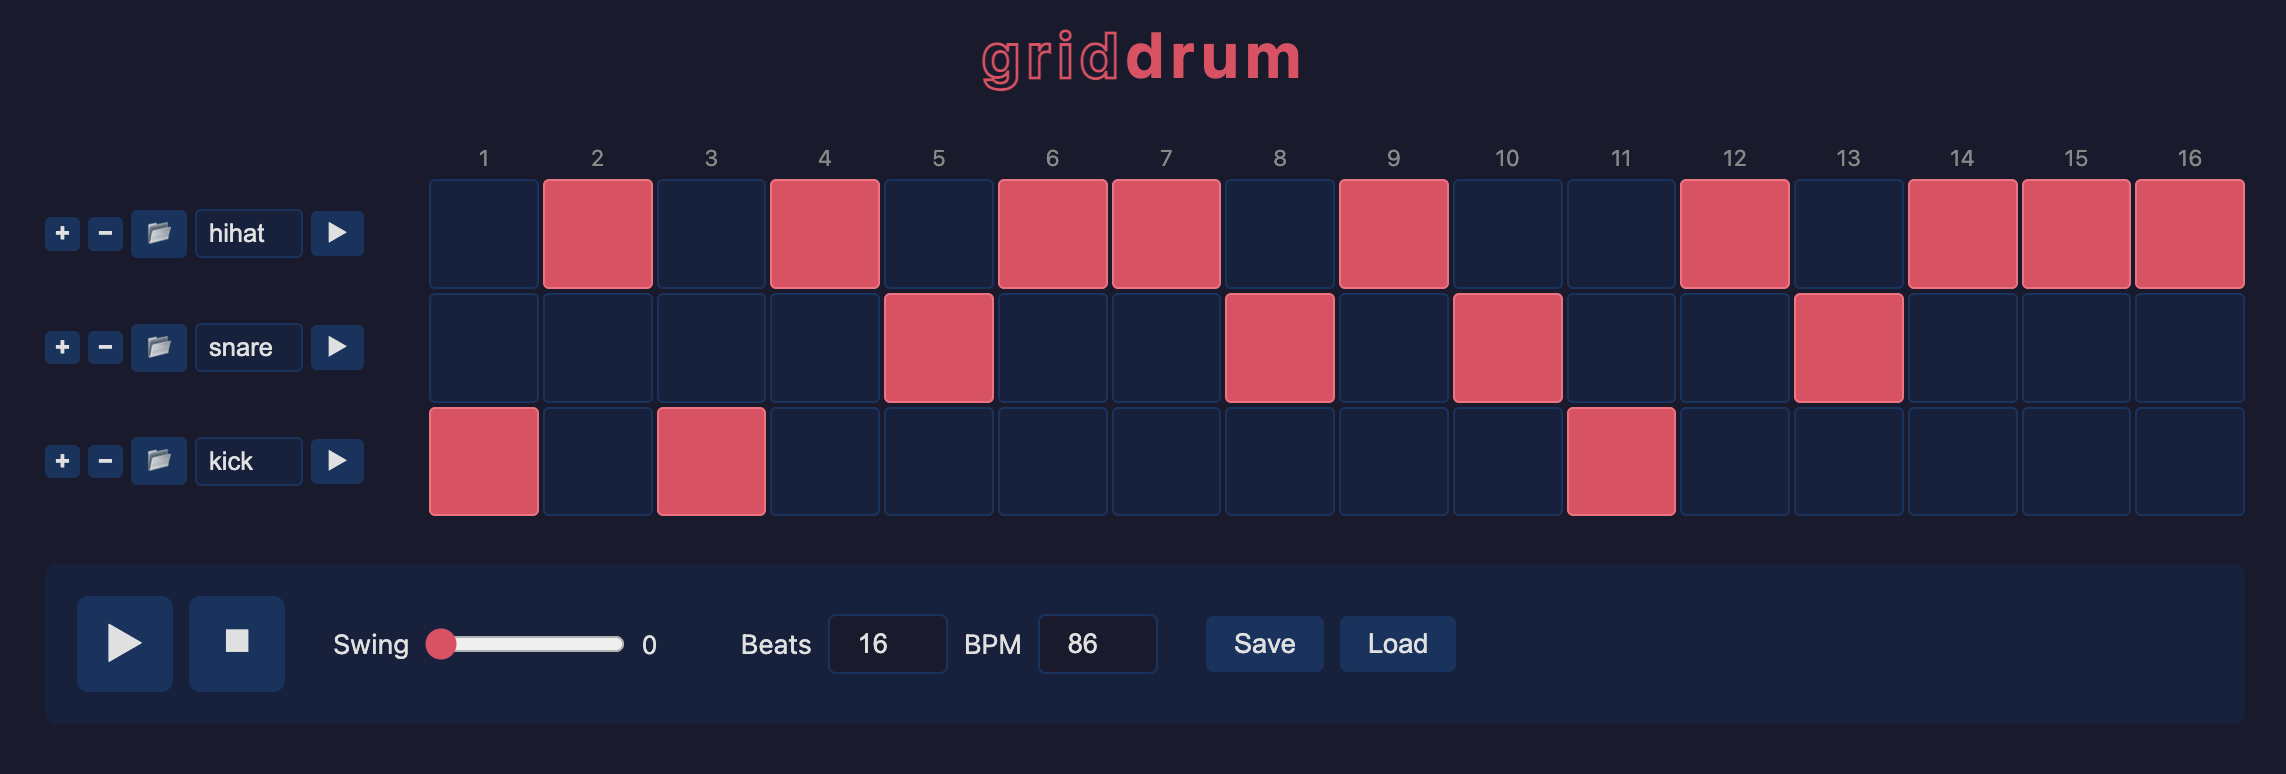
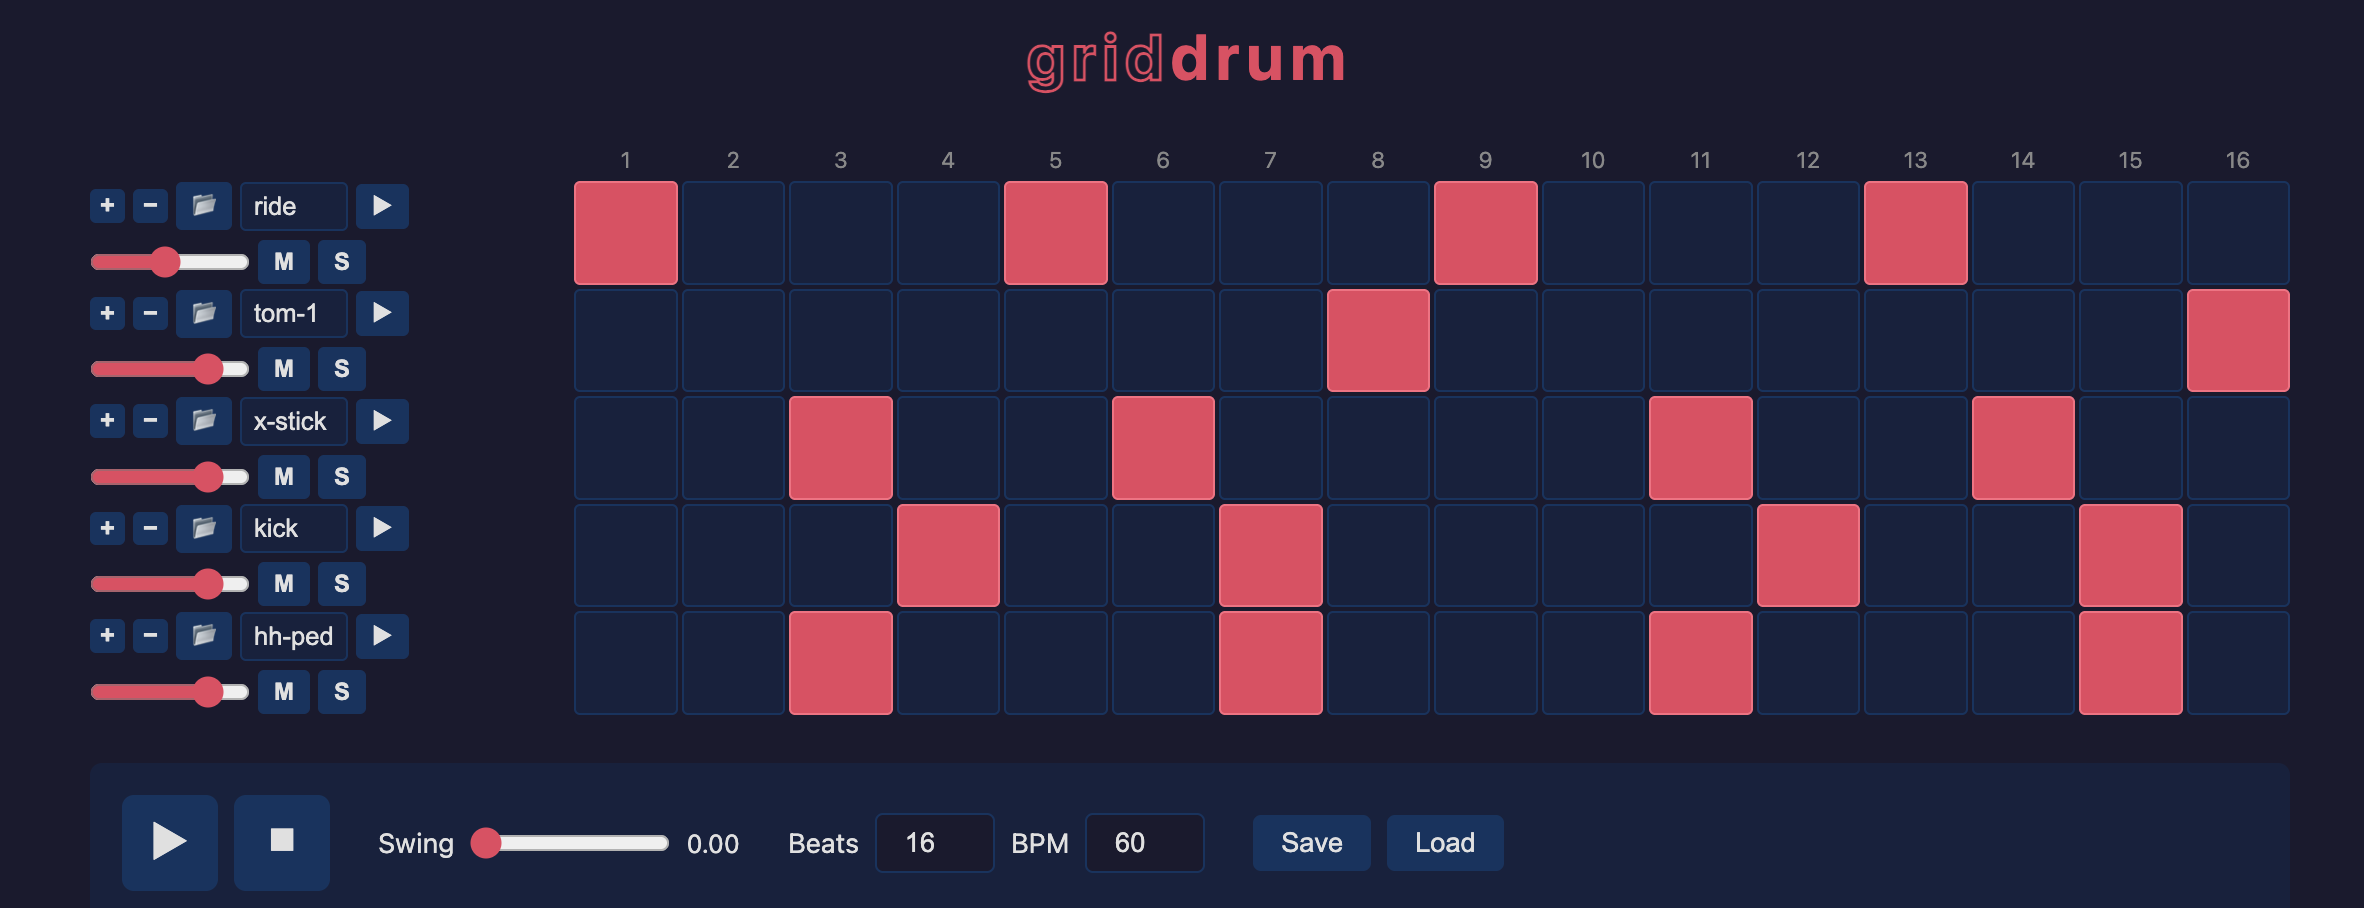
New screenshot and documentation in README.md

diff --git a/README.md b/README.md
@@ -5,3 +5,16 @@ A grid-based drum machine.
 ![GridDrum screen shot](grid-drum-screen-shot.png)
 
 Currently on the web at [https://bwbensonjr.github.io/grid-drum](https://bwbensonjr.github.io/grid-drum).
+
+## Features
+
+* Set number of beats (columns)
+* Use "+" or "-" to add or delete samples
+* Set tempo in beats-per-minute (BPM)
+* Start and stop with buttons or space bar.
+* Save and load current settings with Save/Load or by copying/bookmarking URL.
+* Per-sample settings:
+  * Play
+  * Set volume
+  * Mute (M)
+  * Solo (S)
